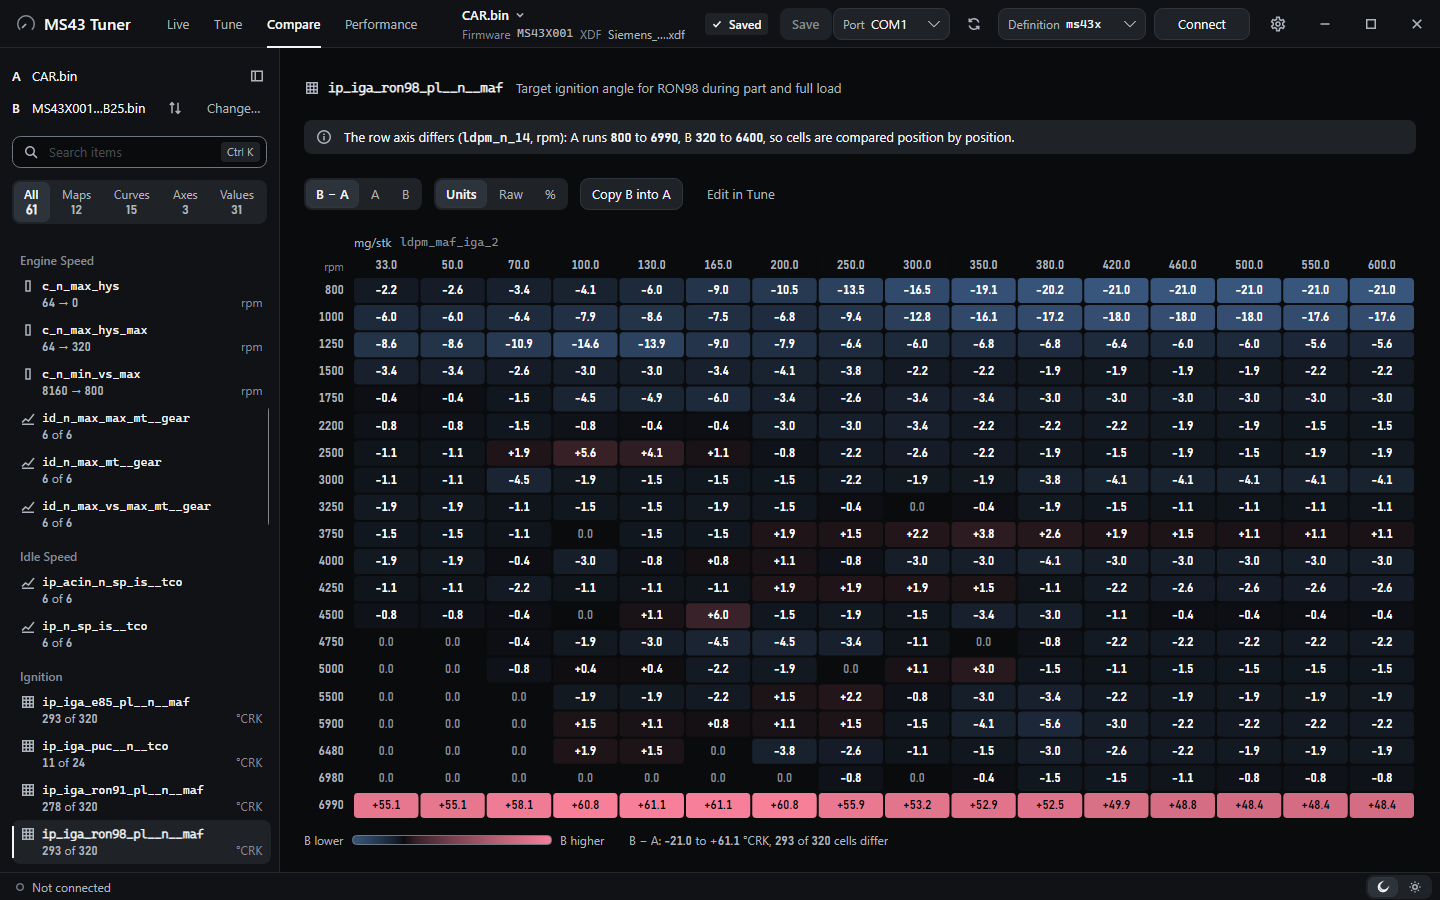
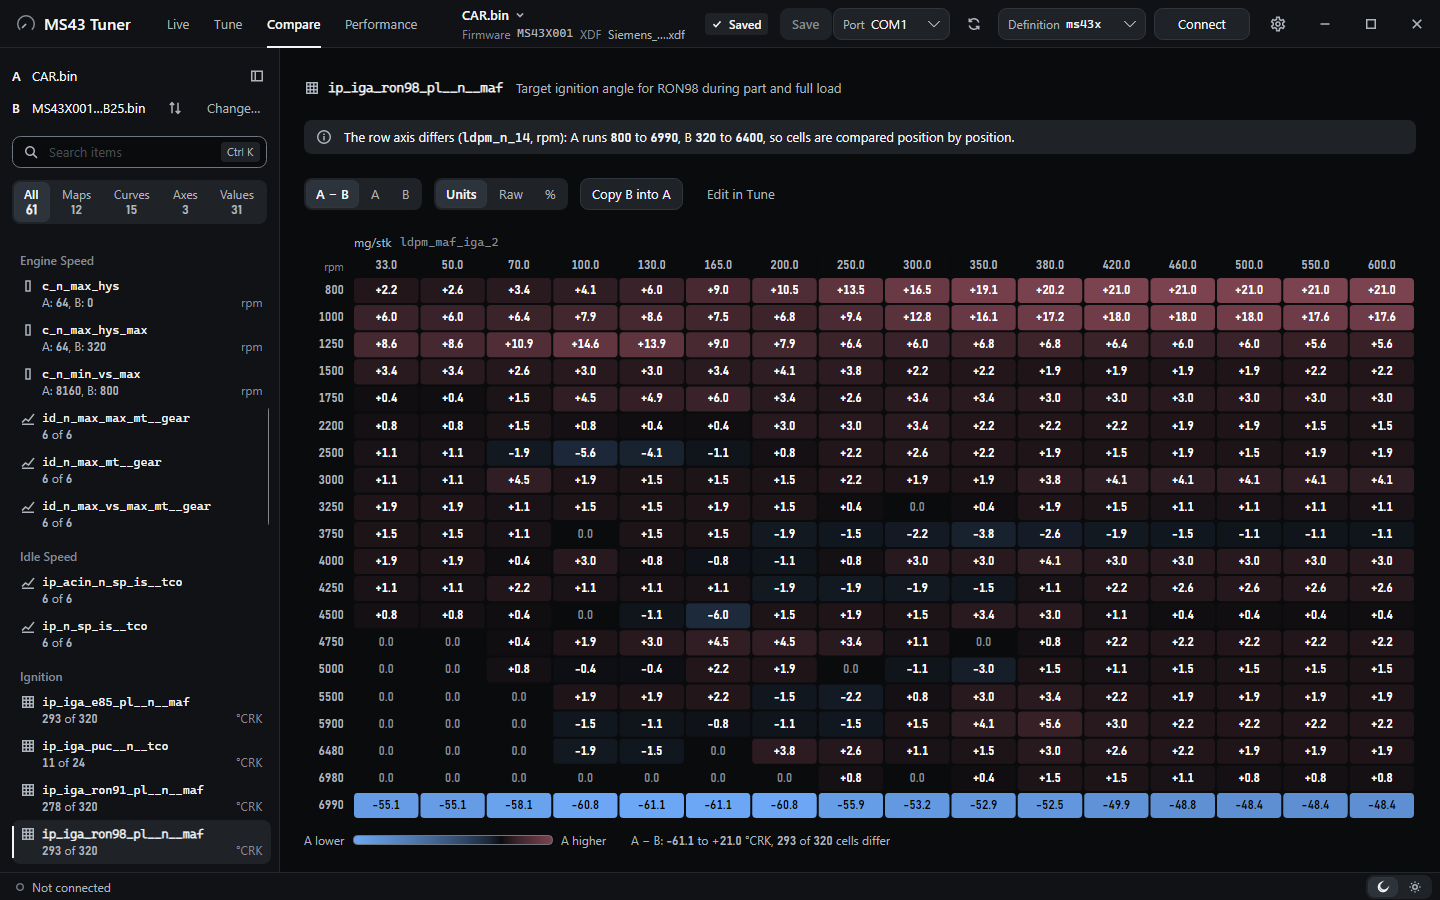
docs(repo): update the workflow notes and comparison screenshot

diff --git a/README.md b/README.md
@@ -4,10 +4,11 @@
 
 # MS43 Tuner
 
-**Live logging, map editing, bin compare and road performance tests for the Siemens MS43 ECU.**
+**Live logging, map editing, live tuning, bin compare and road performance tests for the Siemens MS43 ECU.**
 
 A Windows desktop app, with a command-line tool next to it, for BMW's M54B22, M54B25 and M54B30 engines,<br>
-on stock MS430069-family software or on MS43X001, the community firmware from the MS4X project.
+on stock MS430069-family software or on MS43X001, the community firmware from the MS4X project.<br>
+Live tuning needs MS43X001 with the live-tuning overlay, built on your own bin from [MS43X001_CUSTOM](https://github.com/raph559/MS43X001_CUSTOM).
 
 [![CI](https://github.com/raph559/MS43_TUNER/actions/workflows/ci.yml/badge.svg)](https://github.com/raph559/MS43_TUNER/actions/workflows/ci.yml)
 [![License: GPL-3.0-only](https://img.shields.io/badge/license-GPL--3.0--only-blue.svg)](LICENSE)
@@ -23,11 +24,11 @@ on stock MS430069-family software or on MS43X001, the community firmware from th
 <img src="docs/screenshots/tune-map.png" alt="The Tune tab: the RON98 part-load ignition map as a colour grid, with edit tools above it and a 3D surface preview on the right">
 
 > [!WARNING]
-> MS43 Tuner never writes ECU flash. It saves edited bin files on your PC, and you flash them yourself with MS4X Flasher, which also corrects the checksum. Wheel power is an estimate, not a dyno figure. Run performance tests only on a closed road or a track.
+> MS43 Tuner never writes ECU flash. It saves edited bin files on your PC, and you flash them yourself with MS4X Flasher, which also corrects the checksum. Live tuning changes the ECU's RAM only, through the overlay, and a power cycle brings back the flashed values. Wheel power is an estimate, not a dyno figure. Use the Fun features and run performance tests only on a closed road or a track.
 
 ## What it does
 
-The window has four tabs: Live, Tune, Compare and Performance. There are Night and Day themes (or follow Windows), and animations follow the Windows animation setting.
+The window has six tabs: Live, Tune, Live tuning, Fun, Compare and Performance. Live tuning needs the overlay; Fun edits the open bin without it, and the ECU live with it. There are Night and Day themes (or follow Windows), and animations follow the Windows animation setting.
 
 ### Live
 
@@ -65,6 +66,26 @@ Open a bin with its TunerPro XDF and edit it, as a grid (the picture at the top 
 - Draws maps as a 3D surface you can turn, zoom and edit (Ctrl-drag a point to raise or lower it). Curves, single values, switches and flags each have their own view.
 - Live cursor: while connected, the map shows the cell the engine is on and whether the ECU is using that map right now.
 - Saves the bin, keeping a `.bak` copy of the file as it was before the first save and adding your changes to an edit log next to it, in TunerPro format. Both are on by default and can be turned off in Settings.
+
+### Live tuning
+
+Change maps while the engine runs, with no reflash. This needs an MS43X001 bin with the live-tuning overlay (see [The live-tuning overlay](#the-live-tuning-overlay)); on any other bin the tab says so and does nothing.
+
+- The overlay runs in MS43X001's free flash space. It copies the maps you pick into the ECU's RAM and has the firmware read them from there. The app sends your edits over DS2 on the K-line.
+- Edit a live map like any map in Tune, then Send it, or Send all changed. Switch between the edited and the flashed values at once (A / B) to hear and log the difference.
+- Revert all puts every map back to the flashed one; your edits stay in the app, unsent. Free RAM is shown, and a map that is switched off can be removed from RAM to make room.
+- Copy to Tune puts the values the ECU confirmed into the open bin, to save and flash as usual. Until then, nothing you send survives a power cycle.
+- The rev limiter (rpm, hysteresis, fuel or ignition cut) can be set live too.
+
+### Fun
+
+The extra features, one page each, every one off until you turn it on. With the overlay, a change goes to the ECU live; without it, it edits the open bin.
+
+- **Launch control, no-lift shift and rolling anti-lag**: MS43X001's own features, with their speed, pedal and rpm conditions, ignition offset and AFR target per fuel.
+- **Hardcut**: the rev limiter, as above.
+- **Pops & bangs** on lift-off (overlay only): duration, ignition angle, throttle opening, AFR target, and the minimum engine speed, coolant temperature and vehicle speed.
+- **Downshift blip** (overlay only): an automatic rev-match on braking downshifts, chosen per gear, with its opening, hold, spark angle and lead, a spark cap above the target engine speed, and limits on vehicle speed, engine speed and time.
+- Pops and the blip can stay armed all the time, or follow a switch in the car: cruise control armed, ASC off or A/C on.
 
 ### Compare
 
@@ -111,10 +132,11 @@ Time pulls, roll-ons and standing starts from the same data stream.
 | **Cable** | A K+DCAN USB cable, or another K-line interface that holds 125000 baud reliably, set up as a COM port |
 | **Car** | A BMW with the Siemens MS43 ECU (M54B22, M54B25 or M54B30 engine) |
 | **ECU software** | MS43X001, or stock MS430069-family software with the MS4X extended logging patch: logging uses the MS4X logging command (`0B B0`) |
+| **Live tuning** | An MS43X001 bin with the live-tuning overlay, built on your own bin from [MS43X001_CUSTOM](https://github.com/raph559/MS43X001_CUSTOM) |
 | **Flashing** | MS4X Flasher, to flash the bins you edit |
 | **Building** | The .NET 10 SDK, only to build from source |
 
-MS43 Tuner is developed on one car, an E46 M54B25 running MS43X001. The B22, B25 and B30 logging definitions for stock software come from MS4X; reports from other cars and engines are welcome.
+MS43 Tuner is developed in [MS43_EMULATOR](https://github.com/raph559/MS43_EMULATOR), which runs the real MS43X001 code, and on one car: an E46 M54B25 running a custom build of MS43X001 with the live-tuning overlay ([MS43X001_CUSTOM](https://github.com/raph559/MS43X001_CUSTOM)). The B22, B25 and B30 logging definitions for stock software come from MS4X; reports from other cars and engines are welcome.
 
 ## Install
 
@@ -230,8 +252,7 @@ src/MS43Logger.Cli/                 the command-line tool
 tests/MS43Logger.Core.Tests/        xUnit tests for the core
 tests/MS43Logger.AvaloniaApp.Tests/ headless UI tests
 definitions/                        bundled MS4X logging definitions and the MS43X001 live cursor rules
-docs/firmware/map-use/              firmware notes behind the map-use rules
-docs/superpowers/                   design specs and implementation plans
+docs/firmware/                      firmware notes: the map-use rules and the overlay
 docs/screenshots/                   images for this README
 scripts/                            release packaging and the live-inputs generator
 ```
@@ -251,11 +272,17 @@ The logging definitions in [`definitions/`](definitions) are by the MS4x Dev Tea
 | `Siemens_MS43_Extended_Log_v2.9_M54B30.adx` | `b30` |
 | `Siemens_MS43_MS43X001_Logging.adx` | `ms43x` |
 
-These files have no stated license and are not covered by this project's license. Permission from MS4X is being requested, and the files will be removed if MS4X asks. [NOTICE.md](NOTICE.md) has the details and the third-party packages the app uses.
+The MS43X001 logging definition is GPL-3.0, as MS4X publishes it in [MS43X-Custom-Firmware](https://github.com/ms4x-net/MS43X-Custom-Firmware). The three Extended Log files have no stated license and are not covered by this project's license; permission from MS4X is being requested, and they will be removed if MS4X asks. [NOTICE.md](NOTICE.md) has the details and the third-party packages the app uses.
 
-The MS43X001 map definition (the `Siemens_MS43_MS43X001_512K` XDF by the MS4x Dev Team: 1479 tables, 2293 constants, `BASEOFFSET` 0x70000) is not in this repository, because it has no stated license either. Get it from the [MS4X project](https://www.ms4x.net) and open it in the app. Tune and Compare read TunerPro XDF files and are tested with this one. The live cursor's rules ([`definitions/ms43x001_map_use.json`](definitions/ms43x001_map_use.json) and [`definitions/ms43x001_live_inputs.json`](definitions/ms43x001_live_inputs.json)) are written for MS43X001 only; the firmware notes behind them are in [`docs/firmware/map-use`](docs/firmware/map-use).
+The MS43X001 map definition (the `Siemens_MS43_MS43X001_512K` XDF by the MS4x Dev Team: 1479 tables, 2293 constants, `BASEOFFSET` 0x70000) is not in this repository. Get it from the [MS4X project](https://github.com/ms4x-net/MS43X-Custom-Firmware) and open it in the app. Tune and Compare read TunerPro XDF files and are tested with this one. The live cursor's rules ([`definitions/ms43x001_map_use.json`](definitions/ms43x001_map_use.json) and [`definitions/ms43x001_live_inputs.json`](definitions/ms43x001_live_inputs.json)) are written for MS43X001 only; the firmware notes behind them are in [`docs/firmware/map-use`](docs/firmware/map-use).
 
 Bins are never committed. Keep your own bins and XDF out of issues and pull requests.
+
+### The live-tuning overlay
+
+The overlay has its own repository, [MS43X001_CUSTOM](https://github.com/raph559/MS43X001_CUSTOM), with its full history, under GPL-3.0 like MS43X001, which it modifies. Its build takes your own MS43X001 bin and adds only the overlay's code; no bin is published. MS43X001 itself is by the MS4X project and is built on Siemens's MS430069 software.
+
+It has been tested in [MS43_EMULATOR](https://github.com/raph559/MS43_EMULATOR), which runs the real firmware, on scripted drives (starts, idle, full load, overrun, blips), and in one car. It has not been validated more widely. Keep your original bin, and flash the overlay bin only if you can flash back.
 
 Sources for the logger:
 
@@ -271,8 +298,6 @@ The app is built with [Avalonia](https://avaloniaui.net/) and tested with [xUnit
 - More performance tests: coast-down, part-throttle cell sweep, throttle response, idle quality, rev-limiter check, 0 to 400 m, braking, warm-up log, repeatability sets, and export.
 - Log replay from CSV with time spent per map cell.
 
-The design documents are in the source contract and the source contract.
-
 ## Contributing
 
 Bug reports, logs from other engines and pull requests are welcome. Read [CONTRIBUTING.md](CONTRIBUTING.md) before you open a pull request. Everyone taking part follows the [code of conduct](CODE_OF_CONDUCT.md). Report security problems privately, as [SECURITY.md](SECURITY.md) describes. Changes are listed in [CHANGELOG.md](CHANGELOG.md).
@@ -281,7 +306,7 @@ Bug reports, logs from other engines and pull requests are welcome. Read [CONTRI
 
 MS43 Tuner's own code and documentation are licensed under the GNU General Public License v3.0 only (GPL-3.0-only). See [LICENSE](LICENSE).
 
-The exception is the four ADX logging definitions in [`definitions/`](definitions), which are by the MS4x Dev Team. They are bundled with credit, have no stated license, and are not covered by the GPL; they will be removed if MS4X asks. The MS43X001 XDF and bins are not in the repository. See [NOTICE.md](NOTICE.md).
+The live-tuning overlay ([MS43X001_CUSTOM](https://github.com/raph559/MS43X001_CUSTOM)) is GPL-3.0 as a modification of MS43X001. The ADX logging definitions in [`definitions/`](definitions) are by the MS4x Dev Team and bundled with credit: the MS43X001 one is GPL-3.0; the three Extended Log ones have no stated license, are not covered by the GPL, and will be removed if MS4X asks. The MS43X001 XDF and bins are not in the repository. See [NOTICE.md](NOTICE.md).
 
 ## Disclaimer
 

diff --git a/CHANGELOG.md b/CHANGELOG.md
@@ -15,6 +15,8 @@ Nothing has been released yet, so everything is under "Unreleased". Until the fi
 - CLI logging with channel selection, sample count or duration limits, and a custom ADX (`--definition`).
 - Connection states with banners; "Show details" opens the full connection log to copy into a report.
 - Each sample carries the time of the request that answered it.
+- After a key-off or a reset the app reconnects on its own, every second, and carries on in the same CSV log; Disconnect stops it. Timeouts before any sample still stop as before.
+- With the Live tuning page, each CSV row says which version of each live map was in use.
 
 ### Tune
 
@@ -27,13 +29,25 @@ Nothing has been released yet, so everything is under "Unreleased". Until the fi
 - Save and Save as write through a temporary file, keep one `.bak` of the file as it was before the first save in a session, and append a TunerPro-style edit log. Both can be turned off in Settings.
 - Live cursor: while logging, the shown map, curve or axis marks where the engine is, found the way the ECU searches its axes, with the surrounding cells weighted, a fading trail and the interpolated value. Gear-indexed tables read the gear from the top bits of the rpm word. Tables whose inputs the logger does not carry say why.
 - Map use: next to the live readout, whether the ECU is using the map on screen: "In use", "Not in use", a blend such as "RON98 72 % · RON91 28 %", "Possibly in use" or "Selection unknown". It covers VE 1 to 8, ignition part load, idle and optimum, the full-load AFR target, the VANOS maps (part load told from full load) and the catalyst-heating maps. The rules are data in `definitions/ms43x001_map_use.json`, with their evidence in `docs/firmware/map-use/`.
-- Compare with B inside Tune: A, B or B − A on the map, read as units, raw counts or %, and Copy from B. The remembered B opens with A.
+- Compare with B inside Tune: A, B or A − B on the map, read as units, raw counts or %, and Copy from B. The remembered B opens with A.
+- Map windows, as in TunerPro: a map, curve or axis opens in a window of its own from a double-click in the rail, the row's menu or Open in window, any number at once. Each has the edit tools, the grid, the key line and the live cursor on every tab; all edit the bin through its one undo history, Ctrl S saves, and they close with the bin.
+
+### Live tuning
+
+- A Live tuning tab for an ECU running the live-tuning overlay bin (MS43LAB plan 6; proven in the emulator, not yet on a real ECU): the RON98 ignition, idle ignition, RON98 λ target and both part-load cam targets, edited with the Tune tab's tools and the live cursor.
+- The app finds the overlay with the read-only DS2 command 06 before it sends anything; without it the page is read-only and says why. The base of every edit is the ECU's own flashed maps.
+- Edits stay in the app until Send, which uploads only the changed cells and switches the map on. A/B for all maps and per map, Free, and an always-visible Revert all, which leaves the edits in the app.
+- A status every second keeps the overlay alive. After a key cycle or a stall, whatever had been sent is sent again and the live maps go back on once the engine runs. A λ cell leaner than flashed is refused before anything is sent.
+- Edits are kept between sessions. Copy to Tune puts them into the Tune tab's bin, to save and flash as usual (no checksum is touched; MS4X Flasher corrects them), and warns when that bin is not the overlay bin.
+- A Performance run made with maps live records them, and says when they changed during the run.
+- The header compacts below 1536 px of window to make room for the fifth tab.
 
 ### Compare
 
 - Compares the open bin (A) with a second bin (B) through A's XDF: every map, curve, value, switch and flag that differs, with the changed cells, the largest change and any axis that differs, plus the bytes that differ outside every XDF item, by flash area.
-- Compare tab: a kind filter, items grouped by category, the B − A grid on a diverging scale and the A and B grids, B − A as units, raw counts or %, "Copy B into A" through the undo history, "Edit in Tune", and a "Differs from B" filter on the Tune rail.
+- Compare tab: a kind filter, items grouped by category, the A − B grid on a diverging scale and the A and B grids, A − B as units, raw counts or % of B, "Copy B into A" through the undo history, "Edit in Tune", and a "Differs from B" filter on the Tune rail.
 - The list resizes and collapses like the Tune rail and has hover cards. A and B can be swapped after a confirmation.
+- A − B reads how far the bin tuned (A) is from the one compared with (B): coral where A is higher, % relative to B. A value, switch or flag row reads "was, now", from B to A ("3520 → 4512"), and a switch's choices show as wrapping text.
 - The CLI lists the same differences with `diff A.bin B.bin --xdf PATH`.
 
 ### Performance
@@ -41,7 +55,7 @@ Nothing has been released yet, so everything is under "Unreleased". Until the fi
 - A Performance tab next to Live, Tune and Compare, fed by the live DS2 samples with no extra requests.
 - Tests: full-throttle pull in 2nd, 3rd or 4th up to the bin's rev limit, knock check, roll-ons 60 to 100 and 80 to 120 km/h, standing starts 0 to 100, 0 to 200 and 100 to 200 km/h, speed calibration with an optional GPS correction, car values, pedal step and link test.
 - Each run has a ready check, a live view (rpm, progress, knock per cylinder, rpm against time over a baseline) and a result: interpolated band times, wheel power and torque estimates, knock, conditions, flags and the tune it ran on.
-- Results are saved with a name, a description and the raw samples, then listed, renamed, deleted and compared: overlaid power, torque, ignition, knock, VANOS and AFR traces, B − A, condition mismatches and the tables that differ, with both runs recomputed from the current car values.
+- Results are saved with a name, a description and the raw samples, then listed, renamed, deleted and compared: overlaid power, torque, ignition, knock, VANOS and AFR traces, A − B with the newer run as A, condition mismatches and the tables that differ, with both runs recomputed from the current car values.
 - Warm-up warnings on Live and Performance: a red coolant banner and an amber oil banner while the temperature is below 80 °C. Each clears after 10 s at 80 °C or more and comes back below 75 °C. A cold engine keeps a run from starting.
 - Car values: the tyre size is picked from width (135 to 355 mm), profile (25 to 85) and rim (13 to 22 in), and a size saved in another form still selects its parts.
 - Removed: the old performance dashboard window, replaced by the tab.
@@ -64,5 +78,7 @@ Nothing has been released yet, so everything is under "Unreleased". Until the fi
 - A press on the value slider no longer writes a value, a locked edit log no longer reads as a failed save, and a disconnect is no longer reported as a logging failure.
 - Trimmed names have tooltips, the arrow keys keep the active cell in view, and the search icon sits inside its field.
 - A fix to the theme switch.
+- The Definition and Port pickers in the header open again: only the header's background drags the window.
+- Clicking a row in the Tune rail or the Compare list no longer moves the list: the clicked row stays where it was while Recent grows or the list is rebuilt.
 
 [Unreleased]: https://github.com/raph559/MS43_LOGGER/commits/main
